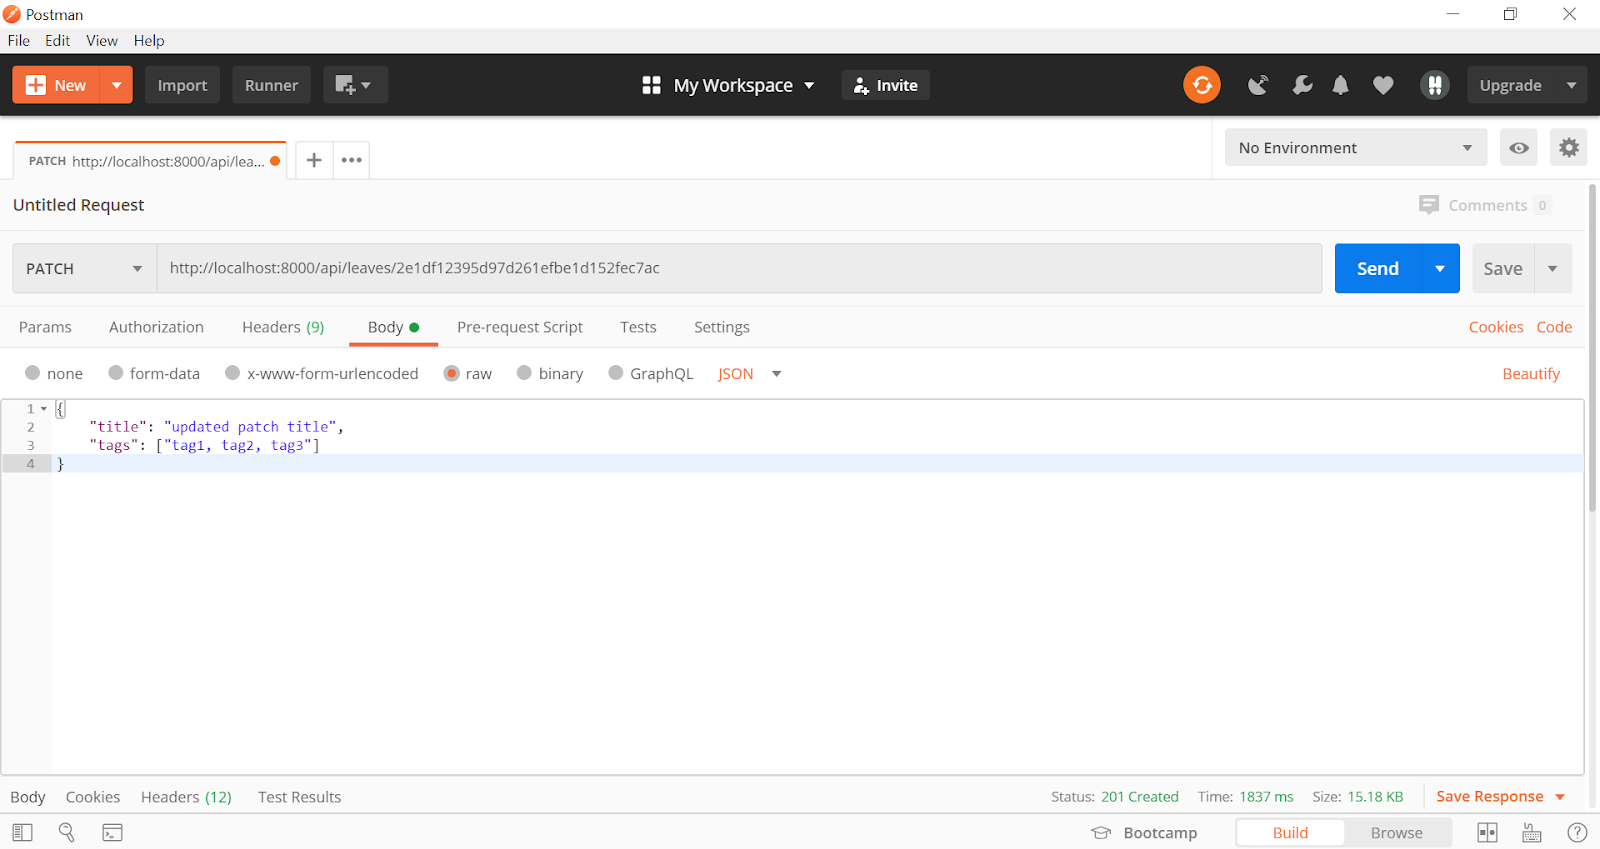
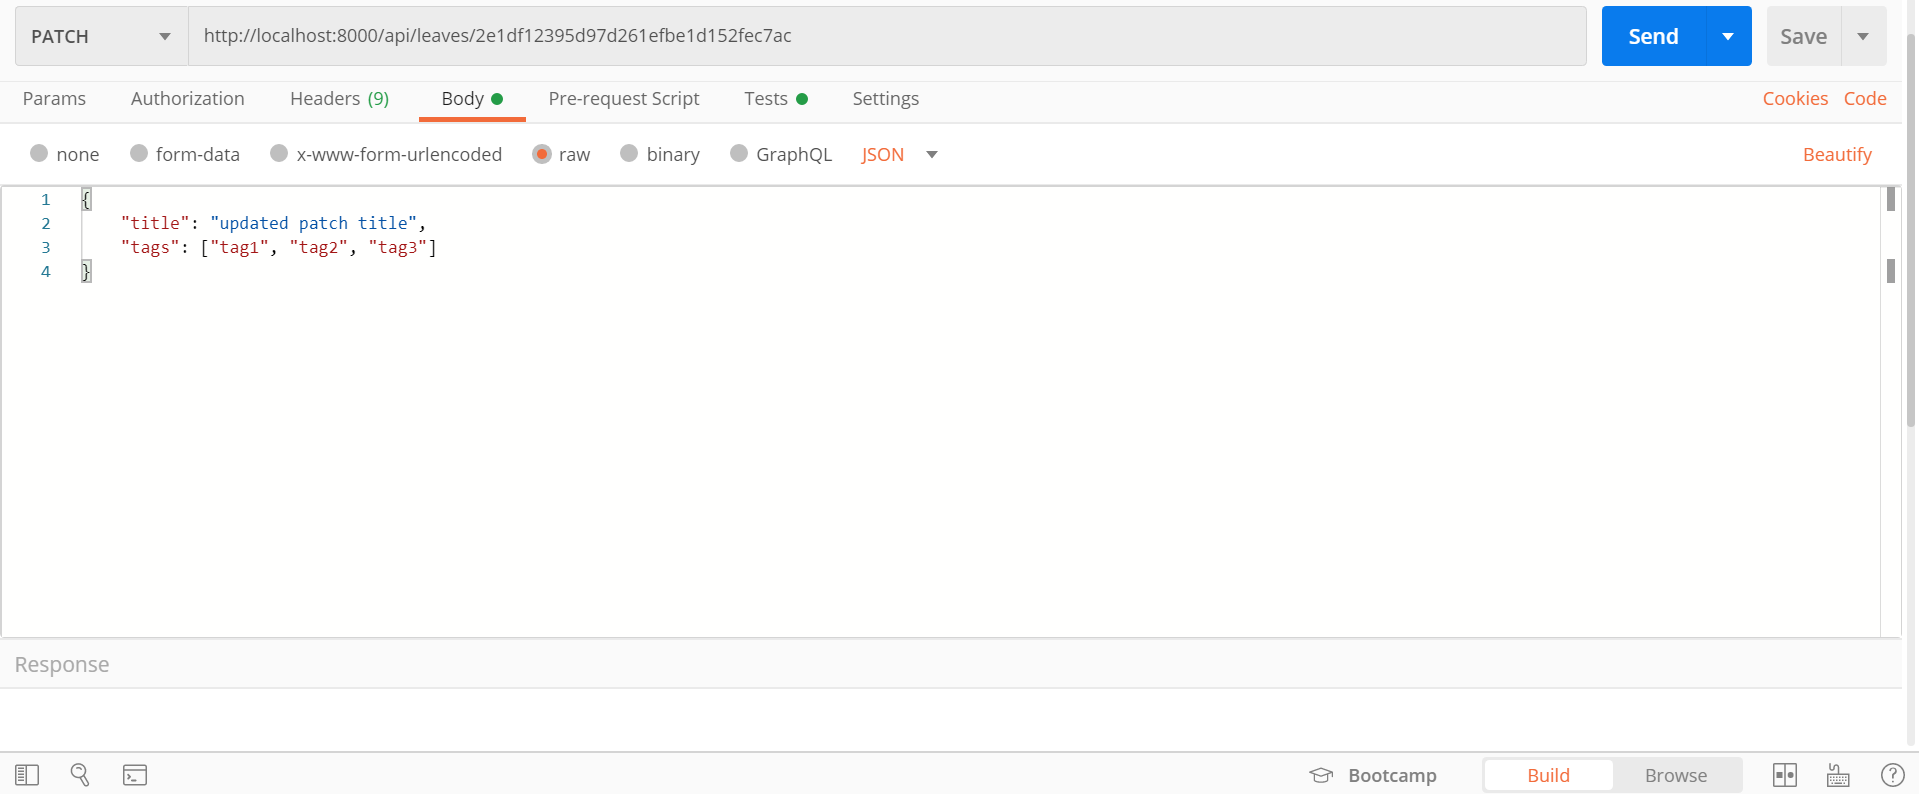
added new postman info to node readme + screenshots for postman collection, tests, and templates

diff --git a/astra.api/leaves.api.node/README.md b/astra.api/leaves.api.node/README.md
@@ -25,7 +25,7 @@ Before using this API, run the data importer first so that you have data in your
 
 ### Running the API Locally 
 
-You need to insert the secure connect bundle and credentials from Astra in /astra.credentials and /astra.credentials/UserCred.json, respectively. You will also need to run the data migrator from /astra.import/RESTToAstra.py to seed the database before we begin making requests to the API.
+You need to insert the secure connect bundle and credentials from Astra in `/astra.credentials` and `/astra.credentials/UserCred.json`, respectively. You will also need to run the data migrator from `/astra.import/RESTToAstra.py` to seed the database before we begin making requests to the API. Set the rows = 100 on line 32 and run the migrator.
 
 Run the following commands:
 
@@ -38,9 +38,45 @@ You sould see the following screen if eveyrthing worked succesfully.
 
 ![ArpImg](Assets/../../../Assets/Images/ArpImg0.png)
 
-Then navigate to`localhost:8000/api/leaves`
+We will begin by testing the endpoints with Postman.
 
-To make a request to `http://localhost:8000/api/leaves/` we will use Postman and cURL. First, using Postman, we will make a GET request to `http://localhost:8000//api/leaves/` to get an array of all items in the database.
+To get the collection of endpoints, copy this link: <https://www.getpostman.com/collections/fec7e958c0140321191a>
+
+To use the link above, we will need to open Postman and click the import button, which will open this modal as seen below.
+
+![ArpImg49](Assets/../../../Assets/Images/ArpImg49.png)
+
+Click on the "link" tab, insert the link you copied, and hit "continue".
+
+After confirming the import, you should see the collection named Cassandra.API with two folders: Tests and Templates.
+
+![ArpImg50](Assets/../../../Assets/Images/ArpImg50.png)
+
+The test folder contains the endpoints used in the walkthrough below, while the template folder contains templated endpoints with example paths and request bodies. Example responses can be seen by clicking on an endpoint and then clicking the example tab in the right hand corner.
+
+![ArpImg51](Assets/../../../Assets/Images/ArpImg50.png)
+
+If you would like to run the test endpoints in the test folder, click on the play button as seen below.
+
+![ArpImg52](Assets/../../../Assets/Images/ArpImg52.png)
+
+Then click on the run button and a new window should appear as seen below.
+
+![ArpImg53](Assets/../../../Assets/Images/ArpImg53.png)
+
+We want to deselect all items first by clicking the "Deselect All" option in the right hand corner because we do not want to run the template endpoints. Once we deselect all, re-select the endpoints with the "TEST" preface as seen below.
+
+![ArpImg54](Assets/../../../Assets/Images/ArpImg54.png)
+
+After doing so, we can now scroll down and run the tests by clicking on "Run Cassandra.API". The results should be as so.
+
+![ArpImg55](Assets/../../../Assets/Images/ArpImg55.png)
+
+At this point, you can either play around with the endpoints in the "Tests" folder as they match the endpoints used in the walkthrough below, or you can use the template endpoints in the "Templates" folder to follow along with the walkthrough. 
+
+#### Postman Walkthrough
+
+First, using Postman, we will make a GET request to `http://localhost:8000//api/leaves/` to get an array of all items in the database.
 
 ![ArpImg1](Assets/../../../Assets/Images/ArpImg1.png)
 
@@ -131,7 +167,7 @@ Once started, an alert will appear like the image below.
 
 Add `/api/leaves` to Gitpod url to view the API.
 
-You can click make public and we will get ready to make cURL requests. To do so, we will need to open a new terminal, while keeping the one running the server open. You will also need to run the data migrator from `/astra.import/RESTToAstra.py` to seed the database before we begin making requests to the API To make the cURL request to get all, we will run `curl http://localhost:8000/api/leaves/`.
+You can click make public and we will get ready to make cURL requests. To do so, we will need to open a new terminal, while keeping the one running the server open. You will also need to run the data migrator from `/astra.import/RESTToAstra.py` to seed the database before we begin making requests to the API. Set the rows = 100 on line 32 and run the migrator. To make the cURL request to get all, we will run `curl http://localhost:8000/api/leaves/`.
 
 ![ArpImg10](Assets/../../../Assets/Images/ArpImg10.png)
 
